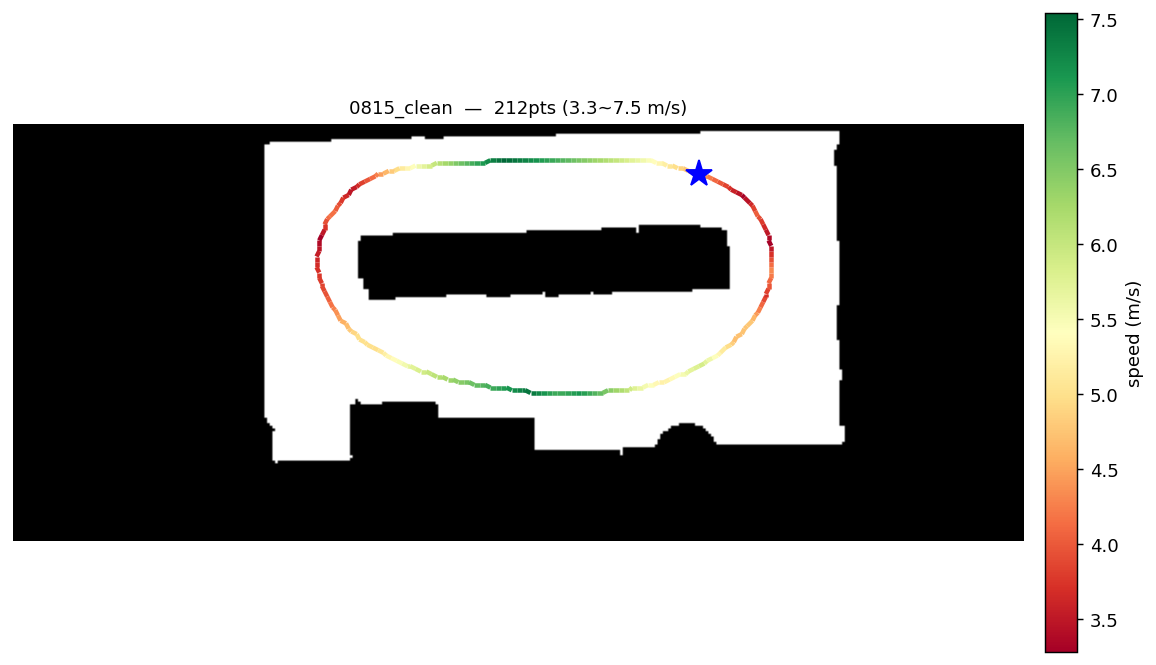
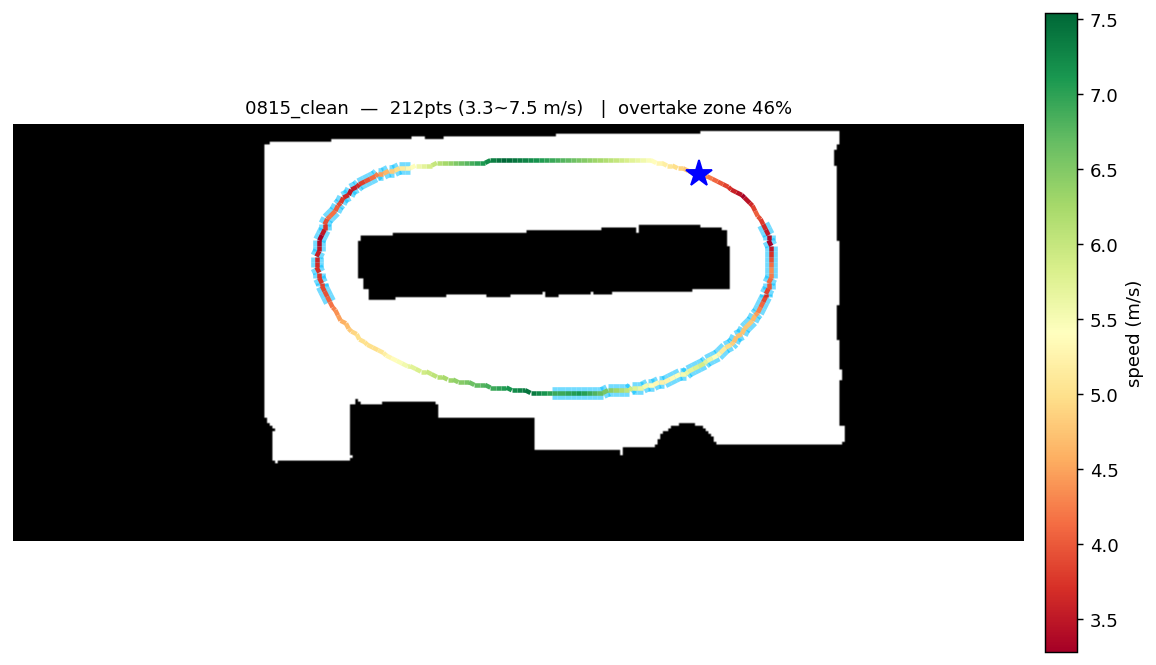
feat(1v1): 추월 가능 구간을 눈으로 볼 수 있게 — 오버레이 PNG + RViz
구간이 로그(`[추월가능]`/`[추월금지]`)에만 떠서 **트랙 어디가 추월 구간인지
볼 방법이 없었다.** 라인을 만들 때와 주행 중 양쪽에서 보이게 했다.

■ ★ 계산은 한 곳에만

  obstacle_avoid.overtake_zone() 을 모듈 레벨 순수 함수로 뽑고,
  gen_raceline(그림)과 frenet_planner(주행)가 **같은 함수**를 쓴다.
  두 벌로 두면 그림과 실제가 갈리는데, 그건 "그림은 되는데 차는 안 피한다"
  로 나타나 디버깅이 샌다. 이 저장소가 이미 몇 번 겪은 실패 모양이다.

  gen_raceline 쪽은 gap_fill 전처리까지 주행과 똑같이 맞췄다 — 벽 틈을
  메우기 전후로 복도 폭이 달라지므로 여기가 어긋나면 구간도 어긋난다.

■ 오버레이 PNG

  라인 위에 하늘색 굵은 선 + 제목에 `overtake zone 46%`.
  0815_clean 에서 주행 쪽 계산과 46% 로 정확히 일치.

  그림이 설계가 맞다는 것도 보여준다 — 파란 구간이 양쪽 코너와 아래 직선,
  즉 벽에서 먼 바깥쪽이다. 위쪽 직선(가장 빠른 구간)은 인필드와 위 벽 사이가
  좁아 빠진다. 거기서 나란히 달리면 낀다.

■ RViz /overtake_zone (래치)

  기동 시 1회 발행. 구간은 맵·라인이 정해지면 안 바뀌므로 매번 낼 이유가 없다.
  ★ ot_zone=false 면 **그 사실을 로그로 남긴다** — 조용히 아무 마커도 안 뜨면
    "안 켠 것" 과 "계산 실패" 를 구분할 수 없다.

■ CLI

  ./race.sh line <맵> --ot-width 1.2   로 그림만 다시 볼 수 있다.
  ※ 주행 값은 race_script.yaml frenet.ot_width 다. 이 인자는 표시용이고,
    구간을 CSV 에 굽지 않은 이유는 그것이 **경로가 아니라 차량 설정의
    성질**이기 때문이다 — min_room·clearance·차폭이 바뀌면 구간도 바뀌는데,
    CSV 에 구우면 그때마다 라인을 다시 만들어야 한다. 두 차의 폭이 다르면
    같은 라인에 서로 다른 구간이 필요한데 CSV 는 하나다.

■ 합성 검증

  원형 트랙 100점 중 20점을 좁게 → 추월가능 67점.
  좁은 20% 외에 끝 잘라내기(2.5m)가 13% 를 더 깎는다. 의도대로다.

diff --git a/src/race_stack/race_stack/gen_raceline.py b/src/race_stack/race_stack/gen_raceline.py
@@ -814,7 +814,43 @@ def calc_vel_profile(kappa:    np.ndarray,
 # ══════════════════════════════════════════════════════════════════════════════
 # 7. 오버레이 PNG 저장
 # ══════════════════════════════════════════════════════════════════════════════
-def save_overlay(map_name, raceline, v, wp_path):
+def _overtake_zone_for(map_name, raceline, args, gap_fill):
+    """오버레이에 그릴 추월 가능 구간. 실패하면 None (그림만 빠진다).
+
+    ★ 주행(frenet_planner)과 **같은 함수**를 쓴다 (obstacle_avoid.overtake_zone).
+      두 벌로 두면 그림과 실제가 갈리고, 그건 "그림은 되는데 차는 안 피한다"
+      로 나타나 디버깅이 샌다.
+    """
+    try:
+        from race_stack.obstacle_avoid import overtake_zone
+        import yaml as _y
+        cfg = _y.safe_load(open(os.path.join(MAPS_DIR, map_name + '.yaml')))
+        res = float(cfg['resolution']); ox, oy = cfg['origin'][:2]
+        img = None
+        for ext in ('.pgm', '.png'):
+            q = os.path.join(MAPS_DIR, map_name + ext)
+            if os.path.exists(q):
+                img = np.array(Image.open(q).convert('L')); break
+        if img is None:
+            return None
+        h, w = img.shape
+        free_b = img > 128
+        if gap_fill > 0.0:                       # 주행 쪽과 같은 전처리
+            r_px = max(1, int(round(gap_fill / res)))
+            yy, xx = np.ogrid[-r_px:r_px + 1, -r_px:r_px + 1]
+            kern = (yy * yy + xx * xx) <= r_px * r_px
+            free_b = ~ndimage.binary_closing(~free_b, structure=kern, border_value=1)
+        dist = cv2.distanceTransform(free_b.astype(np.uint8), cv2.DIST_L2, 5) * res
+        jj = np.clip(((raceline[:, 0] - ox) / res).astype(int), 0, w - 1)
+        ii = np.clip((h - (raceline[:, 1] - oy) / res).astype(int), 0, h - 1)
+        return overtake_zone(raceline, dist[ii, jj],
+                             args.ot_width, args.ot_exit_pad, args.ot_min_len)
+    except Exception as e:
+        print(f'  추월구간 계산 생략: {e}')
+        return None
+
+
+def save_overlay(map_name, raceline, v, wp_path, ot=None):
     try:
         from matplotlib.figure import Figure
         from matplotlib.backends.backend_agg import FigureCanvasAgg
@@ -855,9 +891,25 @@ def save_overlay(map_name, raceline, v, wp_path):
         lc.set_array(v_ext)
         ax.add_collection(lc)
         ax.plot(px[0], py[0], 'b*', ms=15, zorder=6)
+
+        # ── 추월 가능 구간 (1대1) ────────────────────────────────────
+        #   주행 중 로그에만 뜨면 "트랙 어디가 추월 구간인지" 를 눈으로 못 본다.
+        #   라인을 만들 때 같이 그려두면 그 자리에서 검수할 수 있다.
+        #   계산은 obstacle_avoid.overtake_zone — **주행과 같은 함수**다.
+        ot_txt = ''
+        if ot is not None and ot.any():
+            oz = np.append(ot, ot[0])
+            seg_ot = segs[oz[:-1] & oz[1:]]
+            if len(seg_ot):
+                ax.add_collection(LineCollection(
+                    seg_ot, colors='#00bfff', linewidth=7.0, zorder=4, alpha=0.55))
+                ot_txt = f'   |  overtake zone {100*ot.mean():.0f}%'
+        elif ot is not None:
+            ot_txt = '   |  overtake zone 0%'
+
         fig.colorbar(lc, ax=ax, label='speed (m/s)', fraction=0.03, pad=0.02)
         ax.set_title(f'{map_name}  —  {len(raceline)}pts '
-                     f'({v.min():.1f}~{v.max():.1f} m/s)', fontsize=10)
+                     f'({v.min():.1f}~{v.max():.1f} m/s){ot_txt}', fontsize=10)
 
         out = os.path.splitext(wp_path)[0] + '.png'
         fig.tight_layout()
@@ -1080,6 +1132,11 @@ def main():
                    help='트랙 벽의 틈을 이만큼까지 메운다 [m] (기본 0.05). '
                         '틈으로 라이다가 새면 "가장 큰 자유공간"이 샌 통로까지 '
                         '포함해 중심선이 벽에 붙는다. 0=끔')
+    p.add_argument('--ot-width', type=float, default=1.10, dest='ot_width',
+                   help='추월 가능 구간 판정 폭 [m] — 오버레이 표시용. '
+                        '주행 값은 race_script.yaml frenet.ot_width 다')
+    p.add_argument('--ot-exit-pad', type=float, default=2.50, dest='ot_exit_pad')
+    p.add_argument('--ot-min-len',  type=float, default=2.00, dest='ot_min_len')
     p.add_argument('--apex-extra', type=float, default=0.40, dest='apex_extra',
                    help='코너 안쪽에만 더 줄 여유 [m]. 0=끔 (기본 0.40). '
                         '추종 오차가 코너에 몰리므로(실측 직선 0.16 vs 코너 0.39~0.55m) '
@@ -1143,7 +1200,8 @@ def main():
             for (x, y), vi in zip(raceline, v):
                 w.writerow([f'{x:.4f}', f'{y:.4f}', f'{vi:.4f}'])
         print(f'  저장: {len(raceline)}pts → {wp_path}')
-        save_overlay(map_name, raceline, v, wp_path)
+        save_overlay(map_name, raceline, v, wp_path,
+                     _overtake_zone_for(map_name, raceline, args, args.gapfill))
         print(f'\n완료!  race_script.yaml → waypoints: {out_name}')
         return
 
@@ -1206,7 +1264,11 @@ def main():
             w.writerow([f'{x:.4f}', f'{y:.4f}', f'{vi:.4f}'])
     print(f'  웨이포인트: {len(raceline)}pts → {wp_path}')
 
-    save_overlay(map_name, raceline, v, wp_path)
+    ot = _overtake_zone_for(map_name, raceline, args, args.gapfill)
+    if ot is not None:
+        print(f'  추월 가능 구간: {100*ot.mean():.0f}% '
+              f'(폭≥{args.ot_width:.2f}m, 끝에서 {args.ot_exit_pad:.1f}m 잘라냄)')
+    save_overlay(map_name, raceline, v, wp_path, ot)
 
     print('\n완료! 다음 단계:')
     print(f'  race_script.yaml → waypoints: {out_name}')

diff --git a/src/race_stack/race_stack/obstacle_avoid.py b/src/race_stack/race_stack/obstacle_avoid.py
@@ -85,6 +85,61 @@ def _world_to_img(pts: np.ndarray, h, res, ox, oy) -> np.ndarray:
     return np.vstack((px, py)).T.astype(np.int32)
 
 
+def overtake_zone(xy, room, width, exit_pad, min_len):
+    """레이싱라인 각 점에서 **추월을 시작해도 되는가** (bool 배열).
+
+    ★ 한 곳에만 둔다. gen_raceline(오버레이 PNG)과 frenet_planner(주행)가
+      같은 함수를 쓴다. 두 벌로 두면 그림과 실제가 갈리는데, 그건 "그림은
+      되는데 차는 안 피한다" 로 나타나 디버깅이 샌다.
+
+    xy       (N,2) 라인 좌표
+    room     (N,)  각 점에서 벽까지 거리 [m] (거리변환)
+    width    나란히 가려면 필요한 복도 폭 [m] (= 2×room 과 비교)
+    exit_pad 좁아지기 전에 미리 구간을 끝낼 거리 [m]
+    min_len  이보다 짧은 구간은 버린다 [m]
+
+    ★ 왜 끝을 잘라내나 — 회피는 시작보다 **끝내는 것**이 어렵다. 넓은 구간
+      끝에서 옆으로 나가면 다 지나가기 전에 좁아져 상대와 벽 사이에 낀다.
+      그때는 옆으로 피할 곳이 없다.
+    """
+    xy = np.asarray(xy, float)[:, :2]
+    n = len(xy)
+    ds = np.hypot(np.roll(xy[:, 0], -1) - xy[:, 0],
+                  np.roll(xy[:, 1], -1) - xy[:, 1])
+    s_arr = np.concatenate(([0.0], np.cumsum(ds[:-1])))
+    L = float(ds.sum())
+
+    wide = (2.0 * np.asarray(room, float)) >= float(width)
+    ok = wide.copy()
+    if not wide.any():
+        return np.zeros(n, bool)
+    if wide.all():
+        return ok
+
+    # ② 각 넓은 구간의 **끝**에서 exit_pad 만큼 잘라낸다.
+    #    순환이므로 "다음 좁은 점까지 남은 거리" 를 s 로 재서 자른다.
+    s_nar = s_arr[~wide]
+    for i in np.where(wide)[0]:
+        if float(((s_nar - s_arr[i]) % L).min()) < float(exit_pad):
+            ok[i] = False
+
+    # ③ 너무 짧은 구간은 버린다 — 들어가자마자 나오면 의미가 없다
+    i = 0
+    while i < n:
+        if not ok[i]:
+            i += 1
+            continue
+        j = i
+        while j + 1 < n and ok[j + 1]:
+            j += 1
+        if float((s_arr[j] - s_arr[i]) % L) < float(min_len):
+            ok[i:j + 1] = False
+        i = j + 1
+    # 0 을 넘어 이어지는 구간은 위 루프가 둘로 나눠 본다. 한 번 더 이어 붙여
+    # 판정하면 정확하지만, 짧게 잘리는 쪽이 안전한 방향이라 그대로 둔다.
+    return ok
+
+
 # ── 회피 로직 (믹스인) ──────────────────────────────────────────────────────
 
 
@@ -934,33 +989,9 @@ class ObstacleAvoidMixin:
         if cached is not None and cached[0] is wps:
             return cached[1]
 
-        room = self._wall_room(np.asarray(wps[:, :2], float))
-        wide = (2.0 * room) >= self.ot_width
-        n = lut['n']
-        ok = wide.copy()
-
-        if wide.any() and not wide.all():
-            # ② 각 넓은 구간의 **끝**에서 exit_pad 만큼 잘라낸다.
-            #    순환이므로 "다음 좁은 점까지 남은 거리" 를 s 로 재서 자른다.
-            s_arr = lut['s']
-            L = lut['L']
-            narrow = np.where(~wide)[0]
-            s_nar = s_arr[narrow]
-            for i in np.where(wide)[0]:
-                gap = (s_nar - s_arr[i]) % L
-                if gap.min() < self.ot_exit_pad:
-                    ok[i] = False
-            # ③ 너무 짧은 구간은 버린다 — 들어가자마자 나오면 의미가 없다
-            for a, b in self._runs(np.r_[ok, ok])[:]:
-                if a >= n:
-                    break
-                ln = (s_arr[min(b, 2 * n - 1) % n] - s_arr[a % n]) % L
-                if ln < self.ot_min_len:
-                    for j in range(a, min(b + 1, n)):
-                        ok[j % n] = False
-        elif not wide.any():
-            ok[:] = False
-
+        xy = np.asarray(wps[:, :2], float)
+        ok = overtake_zone(xy, self._wall_room(xy),
+                           self.ot_width, self.ot_exit_pad, self.ot_min_len)
         self._ot_cache = (wps, ok)
         return ok
 

diff --git a/src/race_stack/race_stack/frenet_planner.py b/src/race_stack/race_stack/frenet_planner.py
@@ -261,6 +261,12 @@ class FrenetPlanner(ObstacleAvoidMixin, Node):
         self.off_pub = self.create_publisher(Float64, '/frenet/offset', 10)
         self.spd_pub = self.create_publisher(Float64, '/frenet/speed_scale', 10)
         self.st_pub  = self.create_publisher(Float64, '/frenet/status', 10)
+        # 추월 가능 구간 — 래치로 한 번만 낸다 (기동 시 정해지고 안 바뀐다).
+        #   RViz 에서 "지금 여기가 추월 구간인가" 를 눈으로 봐야 로그 없이도
+        #   판단이 된다. 오버레이 PNG 와 **같은 함수**로 계산한 결과다.
+        self.ot_pub  = self.create_publisher(
+            MarkerArray, '/overtake_zone',
+            QoSProfile(depth=1, durability=DurabilityPolicy.TRANSIENT_LOCAL))
         self.fr_pub  = (self.create_publisher(MarkerArray, '/frenet_candidates', 1)
                         if bool(p('debug')) else None)
         self.obs_pub = (self.create_publisher(MarkerArray, '/obstacle', 1)
@@ -277,6 +283,46 @@ class FrenetPlanner(ObstacleAvoidMixin, Node):
             f'(±{self.fr_dmax:.2f}m/{step:.2f}m), 여유 {self.fr_clear:.2f}m, '
             f'호라이즌 {self.obs_h_min:.1f}~{self.obs_h_max:.1f}m '
             f'({self.obs_h_sec:.1f}s)')
+        self._publish_overtake_zone()
+
+    def _publish_overtake_zone(self):
+        """추월 가능 구간을 RViz 로 (하늘색 = 나가도 되는 곳). 기동 시 1회.
+
+        ★ 안 켜져 있으면 **명시적으로 그 사실을 로그로 남긴다.** 조용히 아무
+          마커도 안 뜨면 "안 켠 것" 과 "계산 실패" 를 구분할 수 없다.
+        """
+        if not self.ot_zone_on:
+            self.get_logger().info('[추월구간] ot_zone=false — 어디서든 회피한다')
+            return
+        zone = self._overtake_zone()
+        lut = self._s_lut()
+        if zone is None or lut is None:
+            self.get_logger().warn('[추월구간] 계산 실패 — 웨이포인트/맵 확인')
+            return
+        xy = lut['xy']
+        arr = MarkerArray()
+        mk = Marker()
+        mk.header.frame_id = 'map'
+        mk.header.stamp = self.get_clock().now().to_msg()
+        mk.ns = 'overtake_zone'; mk.id = 0
+        mk.type = Marker.LINE_LIST; mk.action = Marker.ADD
+        mk.scale.x = 0.10
+        mk.color.r, mk.color.g, mk.color.b, mk.color.a = 0.0, 0.75, 1.0, 0.8
+        from geometry_msgs.msg import Point as _P
+        n = len(xy)
+        for i in range(n):
+            j = (i + 1) % n
+            if not (zone[i] and zone[j]):
+                continue
+            for q in (xy[i], xy[j]):
+                pt = _P(); pt.x = float(q[0]); pt.y = float(q[1]); pt.z = 0.03
+                mk.points.append(pt)
+        arr.markers.append(mk)
+        self.ot_pub.publish(arr)
+        self.get_logger().info(
+            f'[추월구간] {100.0 * zone.mean():.0f}% '
+            f'(폭≥{self.ot_width:.2f}m, 끝에서 {self.ot_exit_pad:.1f}m 잘라냄) '
+            f'→ RViz /overtake_zone')
 
     # ── 입력 ─────────────────────────────────────────────────────────
     def _pose_cb(self, msg: PoseWithCovarianceStamped):
